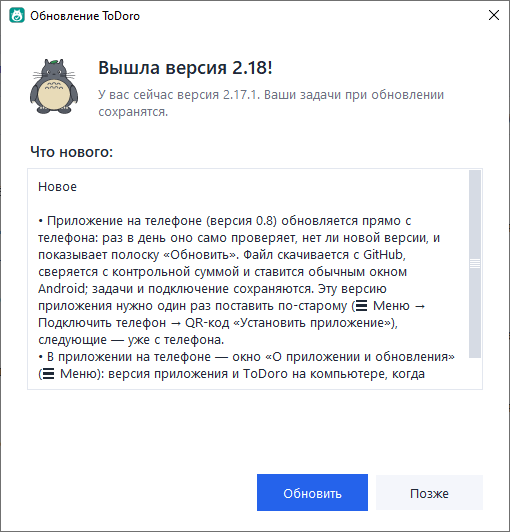
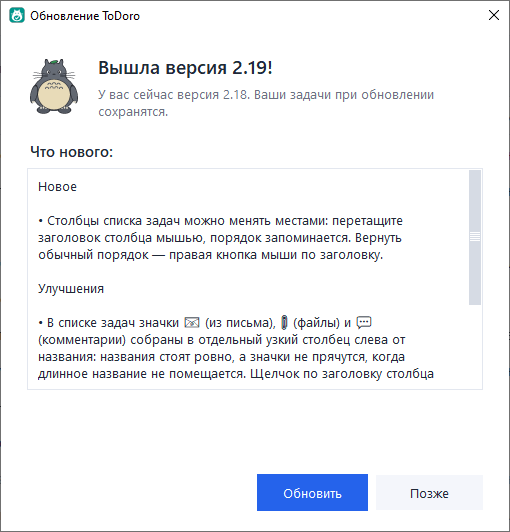
Версия 2.19

diff --git a/todoro.py b/todoro.py
@@ -36,7 +36,7 @@ from examples import make_examples
 from help_text import HELP
 
 APP_NAME = "ToDoro"  # ToDo + Totoro
-APP_VERSION = "2.18"  # номер версии — меняется здесь (установщик берёт его отсюда)
+APP_VERSION = "2.19"  # номер версии — меняется здесь (установщик берёт его отсюда)
 APP_YEAR = 2026
 COPYRIGHT_HOLDER = "Machinist"  # автор — имя меняется здесь и в файле LICENSE
 COPYRIGHT = f"© {APP_YEAR} {COPYRIGHT_HOLDER}"

diff --git a/RELEASE_NOTES.md b/RELEASE_NOTES.md
@@ -3,12 +3,17 @@
 Здесь записано, что менялось от версии к версии. Новые записи — сверху.
 Скачать установщик любой версии: https://github.com/machinist-soft/ToDoro/releases
 
-## Не выпущено
+## 2.19 — 18.10.2026
+
+### Новое
 
 - Столбцы списка задач можно менять местами: перетащите заголовок столбца мышью, порядок запоминается. Вернуть обычный порядок — правая кнопка мыши по заголовку.
-- ToDoro больше не копит временные файлы: черновики писем и копии открытых файлов задач старше недели удаляются при запуске, а скачанный ранее установщик обновления — при скачивании следующего.
-- Файлы задачи показываются с такими же значками, как в Проводнике Windows (Word, Excel, PDF…), а не с серой плашкой с расширением.
+
+### Улучшения
+
 - В списке задач значки 📧 (из письма), 📎 (файлы) и 💬 (комментарии) собраны в отдельный узкий столбец слева от названия: названия стоят ровно, а значки не прячутся, когда длинное название не помещается. Щелчок по заголовку столбца поднимает наверх задачи с файлами и комментариями.
+- Файлы задачи показываются с такими же значками, как в Проводнике Windows (Word, Excel, PDF…), а не с серой плашкой с расширением.
+- ToDoro больше не копит временные файлы: черновики писем и копии открытых файлов задач старше недели удаляются при запуске, а скачанный ранее установщик обновления — при скачивании следующего.
 
 ## 2.18 — 18.10.2026
 
